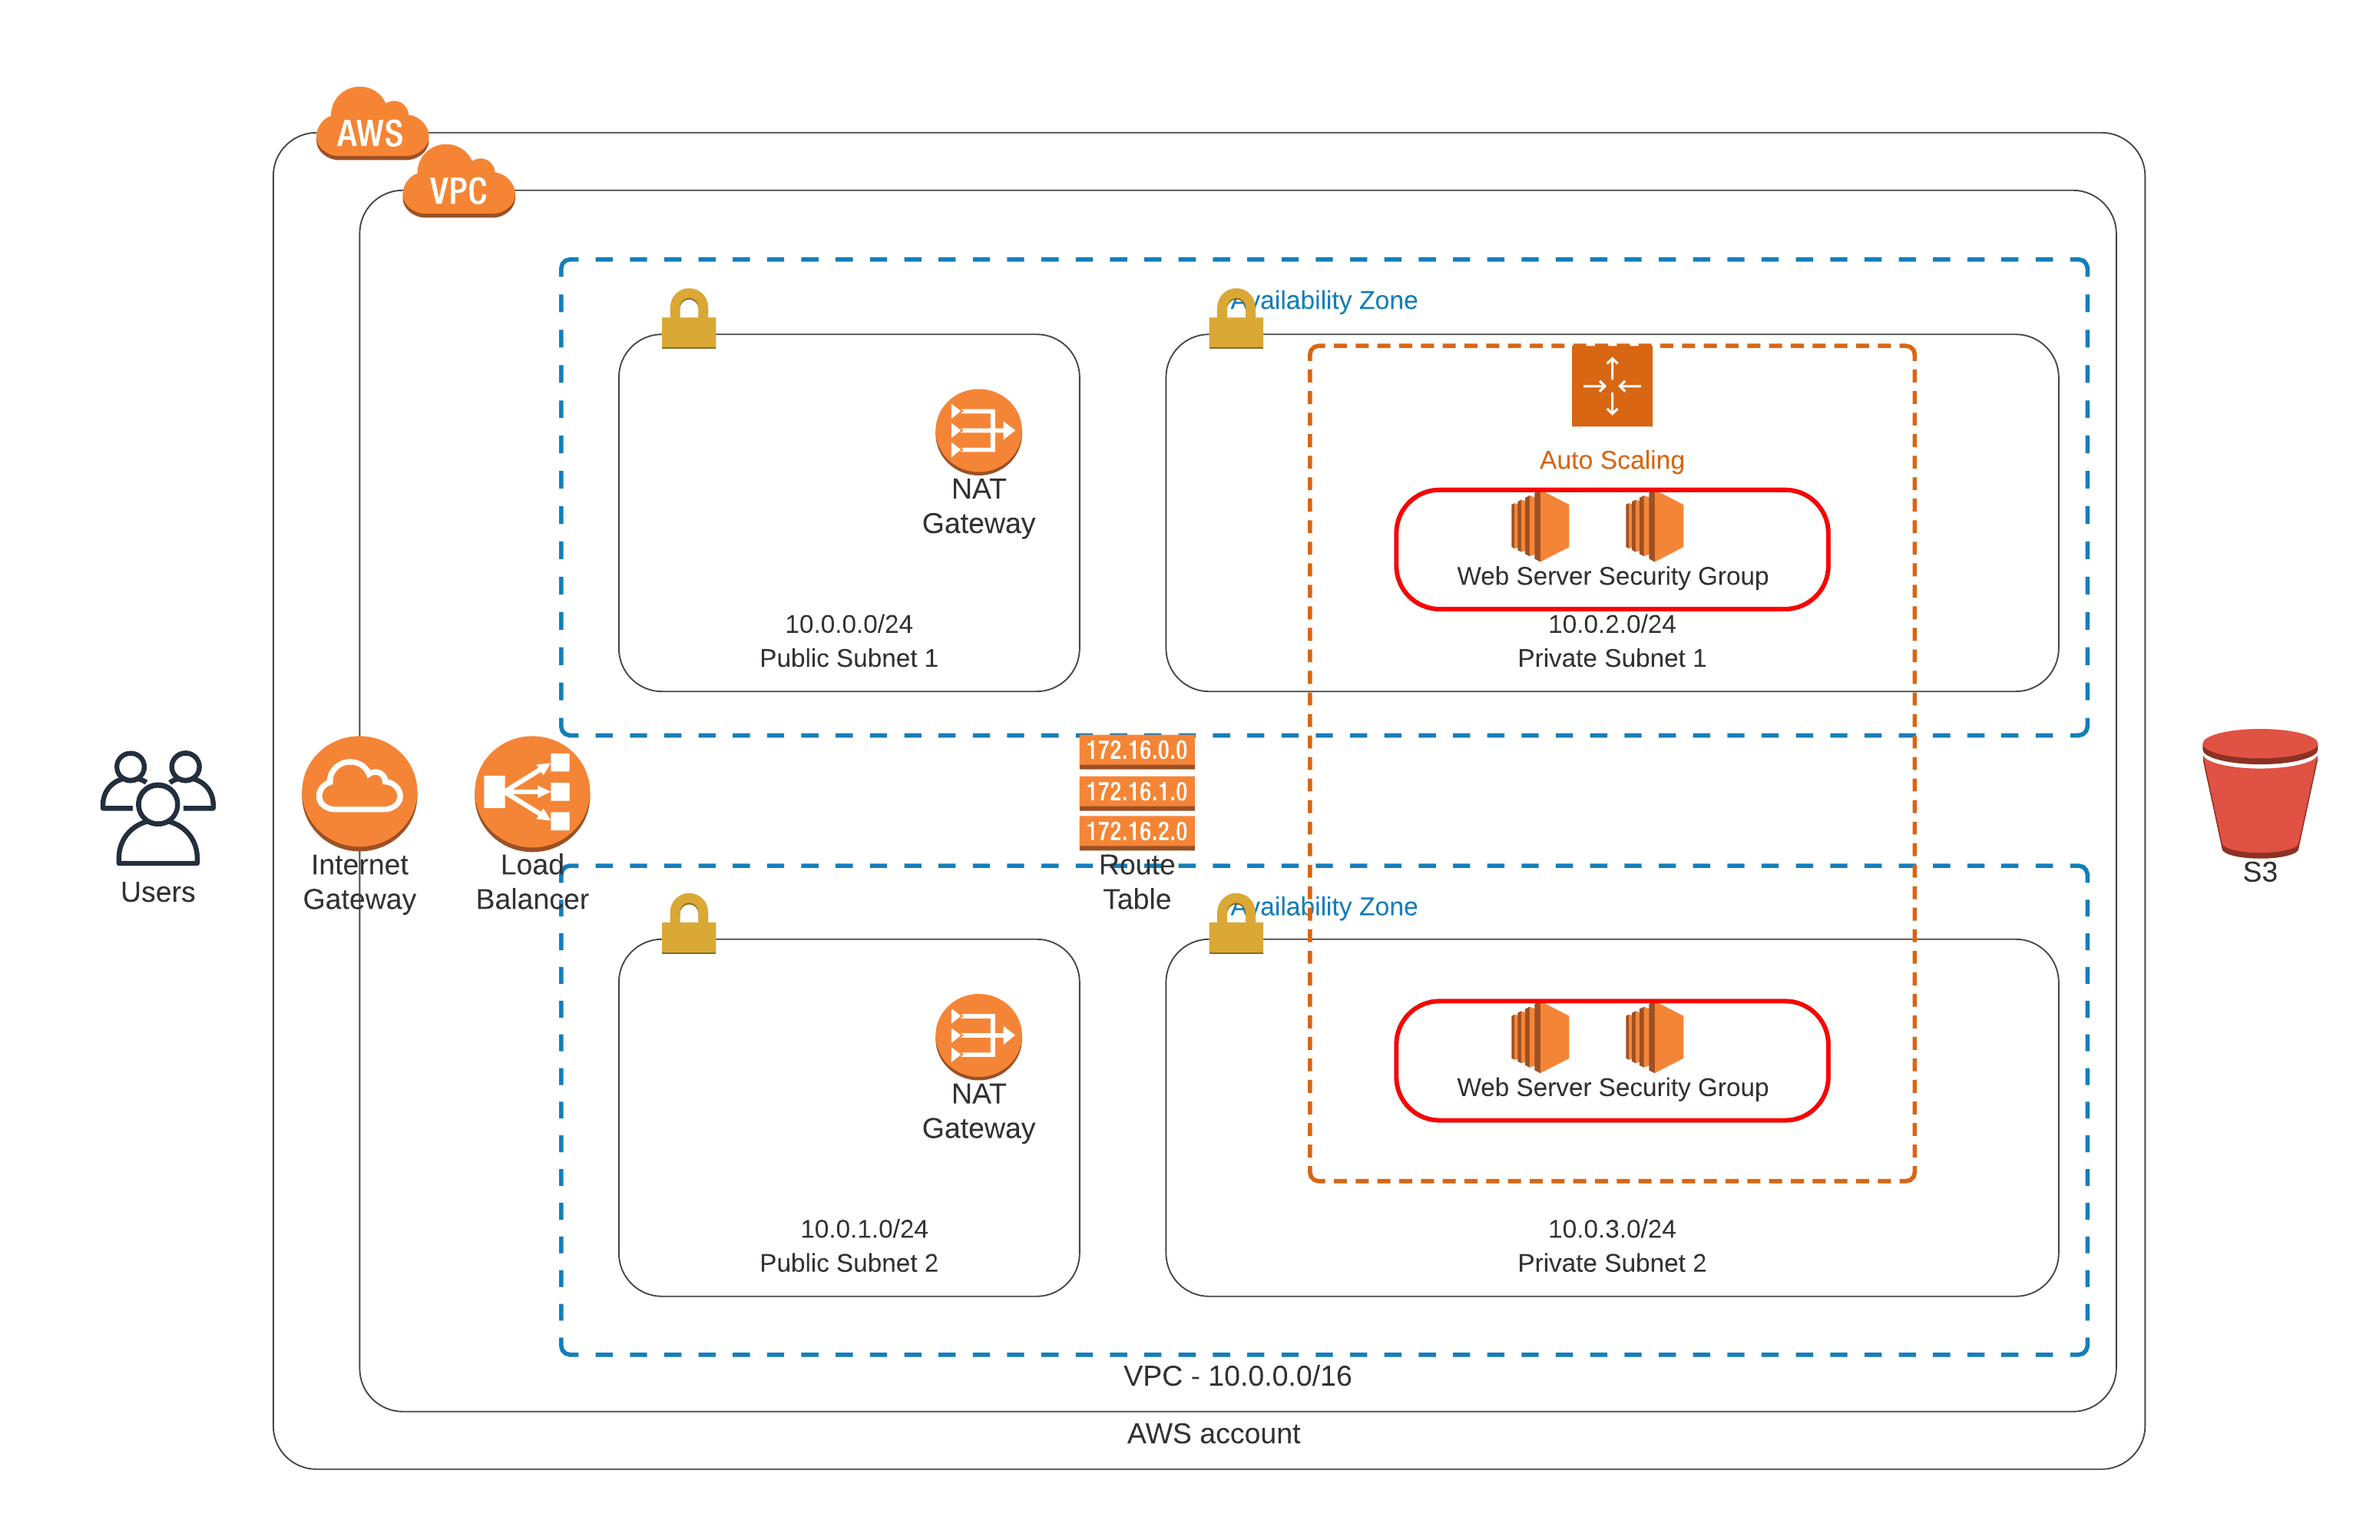
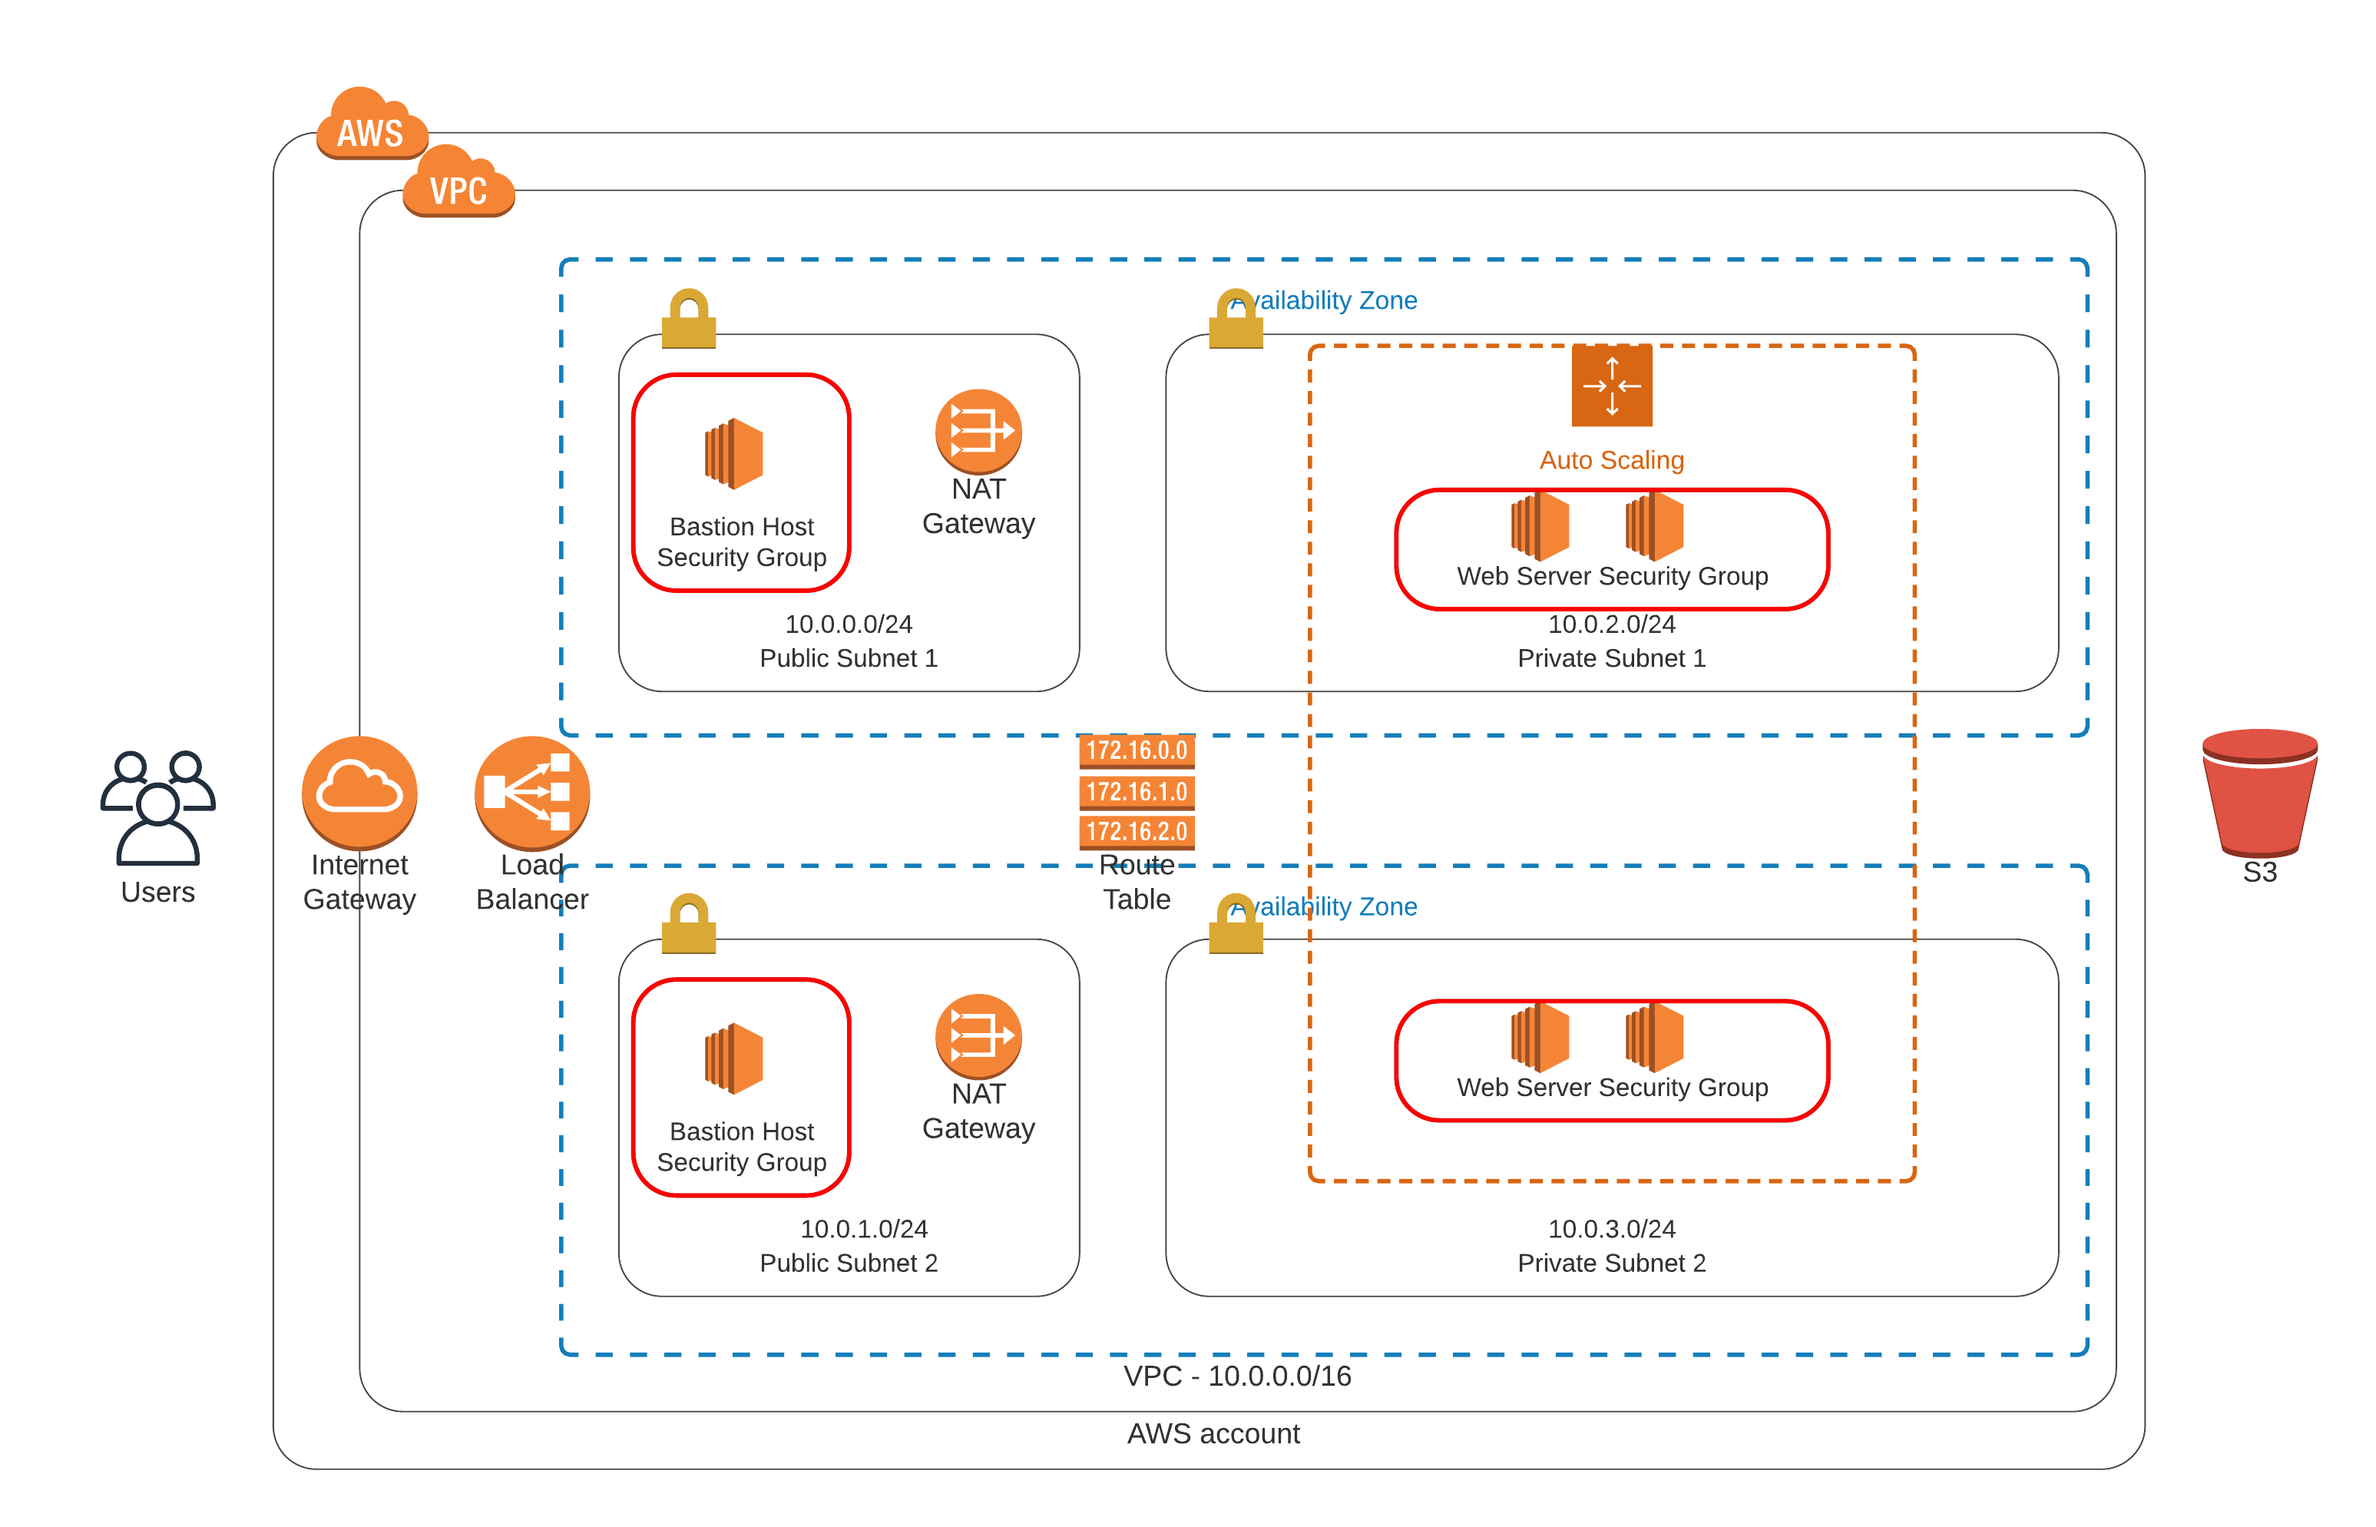
docs: Update diagram and README with bastion host setup

Changed region(s): [[0.2793, 0.6237, 0.3723, 0.8109], [0.2793, 0.2807, 0.3723, 0.3742], [0.2793, 0.2183, 0.3413, 0.2495]]

diff --git a/README.md b/README.md
@@ -9,7 +9,8 @@ The following document contains instractions on how to deploy a highly available
 
 The application infrastructure consists of deploying the following stacks:
 1. Network. This includes VPC, two pairs of public and private subnets, Internet Gateway, NAT Gateways and Routing Tables for public and private subnets with associations.
-2. Application services. In particular, Load Balancer, web servers and corresponding autoscaling, target and security groups.
+2. Bastion hosts _(Optional)_. These are EC2 inctances for troubleshooting of application web servers.
+3. Application services. In particular, Load Balancer, web servers and corresponding autoscaling, target and security groups.
 
 ### Create infrastructure
 
@@ -17,7 +18,9 @@ To create the infrastructure stack run the following commands in the same order 
 
 1. `./create.sh network network.yaml network-parameters.json`                                    
 
-2. `./create.sh application-servers application-servers.yaml application-servers-parameters.json`  
+2. `./create.sh bastion-hosts bastion-hosts.yaml bastion-hosts-parameters.json` 
+
+3. `./create.sh application-servers application-servers.yaml application-servers-parameters.json`  
 
 ### Verify deployment
 
@@ -29,7 +32,9 @@ To update the already existing infrastructure stack run one (or all) the followi
 
 1. `./update.sh network network.yaml network-parameters.json`                                    
 
-2. `./update.sh application-servers application-servers.yaml application-servers-parameters.json`  
+2. `./update.sh bastion-hosts bastion-hosts.yaml bastion-hosts-parameters.json`    
+
+3. `./update.sh application-servers application-servers.yaml application-servers-parameters.json`  
 
 ### Delete infrastructure
 
@@ -37,6 +42,8 @@ To delete the infrastructure stack run the following commands in the same order 
 
 1. `./delete.sh application-servers`  
 
-2. `./delete.sh network`  
+2. `./delete.sh bastion-hosts`  
+
+3. `./delete.sh network`  
 
 _Note_: you would have to type 'yes' to confirm the stack deletion in the command prompt.
